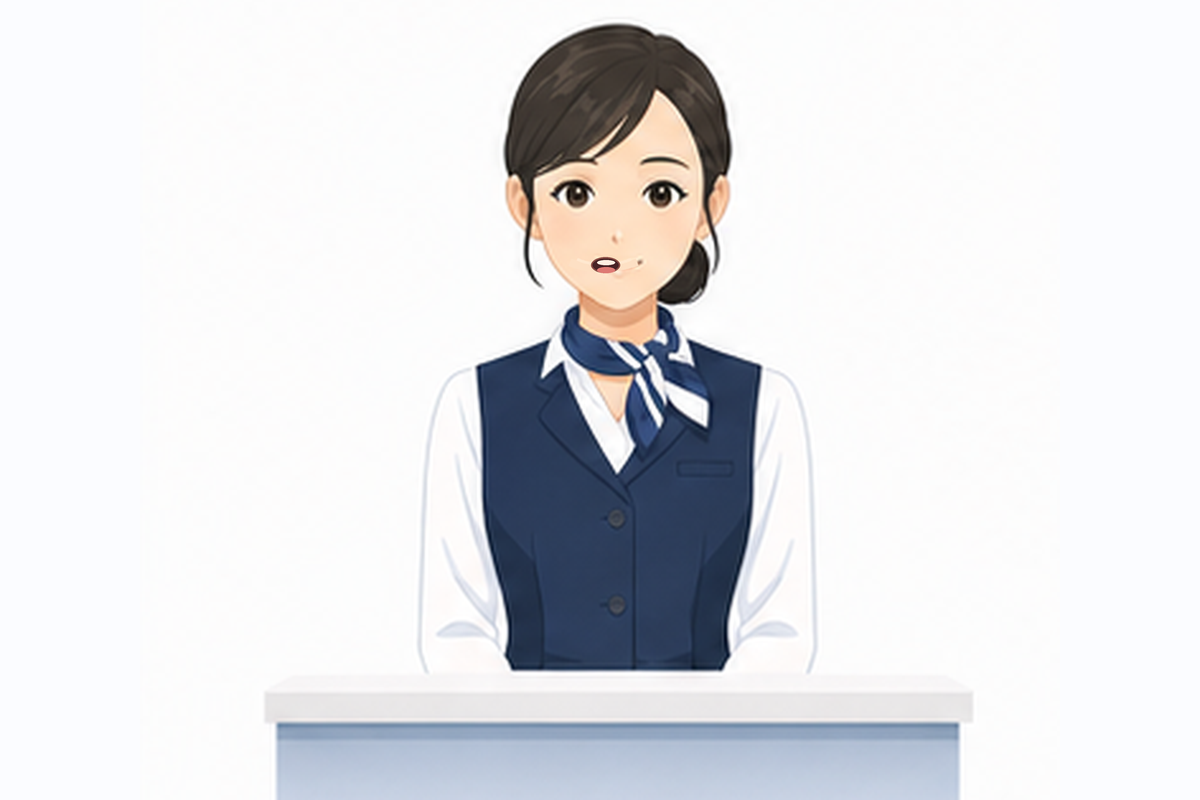
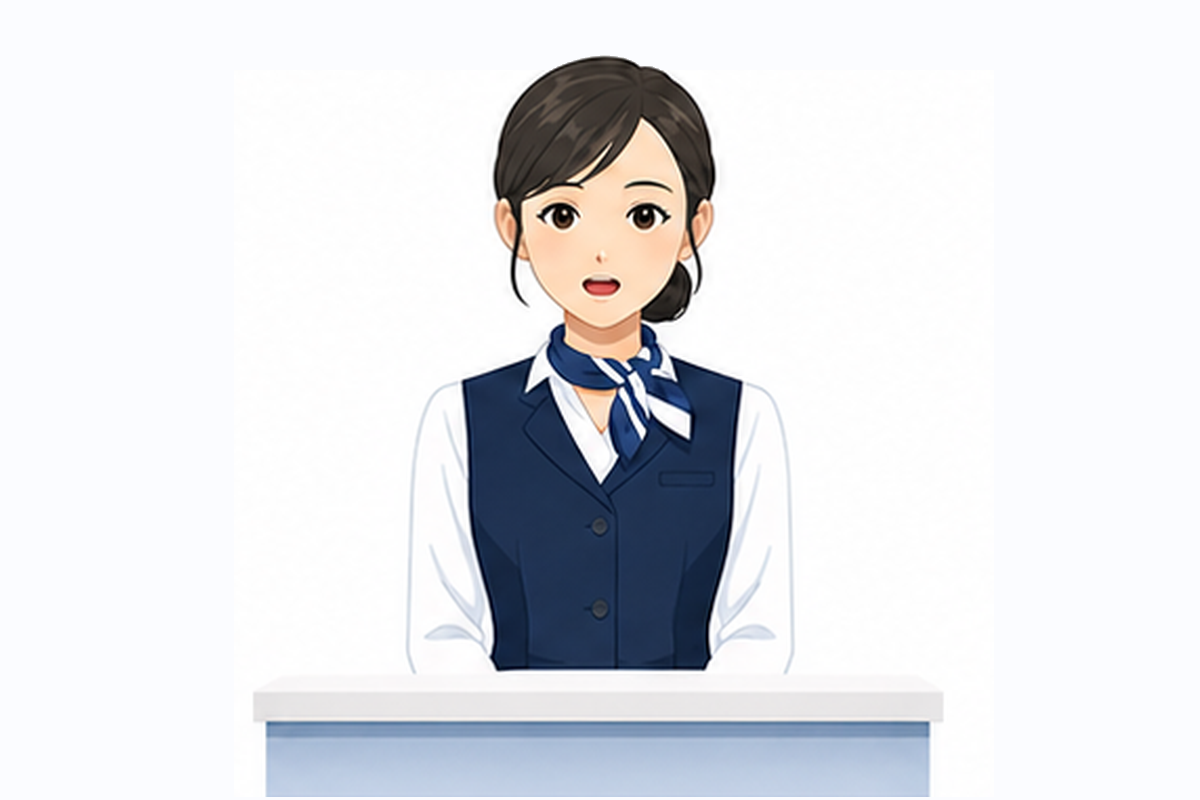
Regenerate receptionist as aligned full-frame animation

Changed region(s): [[0.3392, 0.0312, 0.6783, 0.8438], [0.185, 0.875, 0.8325, 1.0], [0.4933, 0.7188, 0.5242, 0.7812]]

diff --git a/index.html b/index.html
@@ -2443,8 +2443,8 @@
       speaking: Array.from({ length: 12 }, (_, index) => `assets/receptionist/staff-talk-${String(index).padStart(2, "0")}.png`)
     };
 
-    const speechFrameMs = 58;
-    const speechFrameOrder = [0, 1, 2, 3, 2, 1, 0, 1, 4, 5, 6, 7, 8, 9, 10, 11];
+    const speechFrameMs = 72;
+    const speechFrameOrder = [0, 1, 2, 3, 4, 5, 3, 2, 6, 7, 8, 9, 5, 3, 2, 10, 1, 0];
 
     let receptionistVoiceOn = true;
     let receptionistStateTimer;

diff --git a/README.md b/README.md
@@ -9,7 +9,7 @@
 - グラフ色数を絞った青系カラーパレット
 - 装飾よりも数値・比較・要対応の発見しやすさを優先
 - 日本のEC運用者向けの日本語文言
-- AI受付スタッフ画面は固定ベース画像に口差分だけを焼き込んだ12枚の受付スタッフ画像、ブラウザ読み上げ、固定デモ応答のみで構成
+- AI受付スタッフ画面は全体生成した12枚の受付スタッフ画像、ブラウザ読み上げ、固定デモ応答のみで構成
 
 ## 開き方
 
@@ -33,7 +33,7 @@ http://127.0.0.1:8765/
 - データは `index.html` 内の固定デモデータのみです。
 - AI受付の読み上げはブラウザ標準の `SpeechSynthesis` を使います。ChatGPT/Codex CLIやOpenAI APIには接続していません。
 - 受付スタッフ画像は `assets/receptionist/` 配下のローカルアセットです。
-- 応答中は `staff-talk-00.png` から `staff-talk-11.png` までの全体画像を切り替えます。髪・目・肩・机・背景は全フレームで同一にし、口元だけを変更しています。
+- 応答中は `staff-talk-00.png` から `staff-talk-11.png` までの全体画像を切り替えます。生成後に各フレームの人物中心と机の下端をそろえ、閉じ口・小開き・中開き・大開きを段階的に挟んでいます。
 - CSPで `connect-src 'none'` を設定し、ブラウザからのネットワーク通信を禁止しています。
 - ローカル確認サーバーを使う場合は `127.0.0.1` に限定してください。
 
